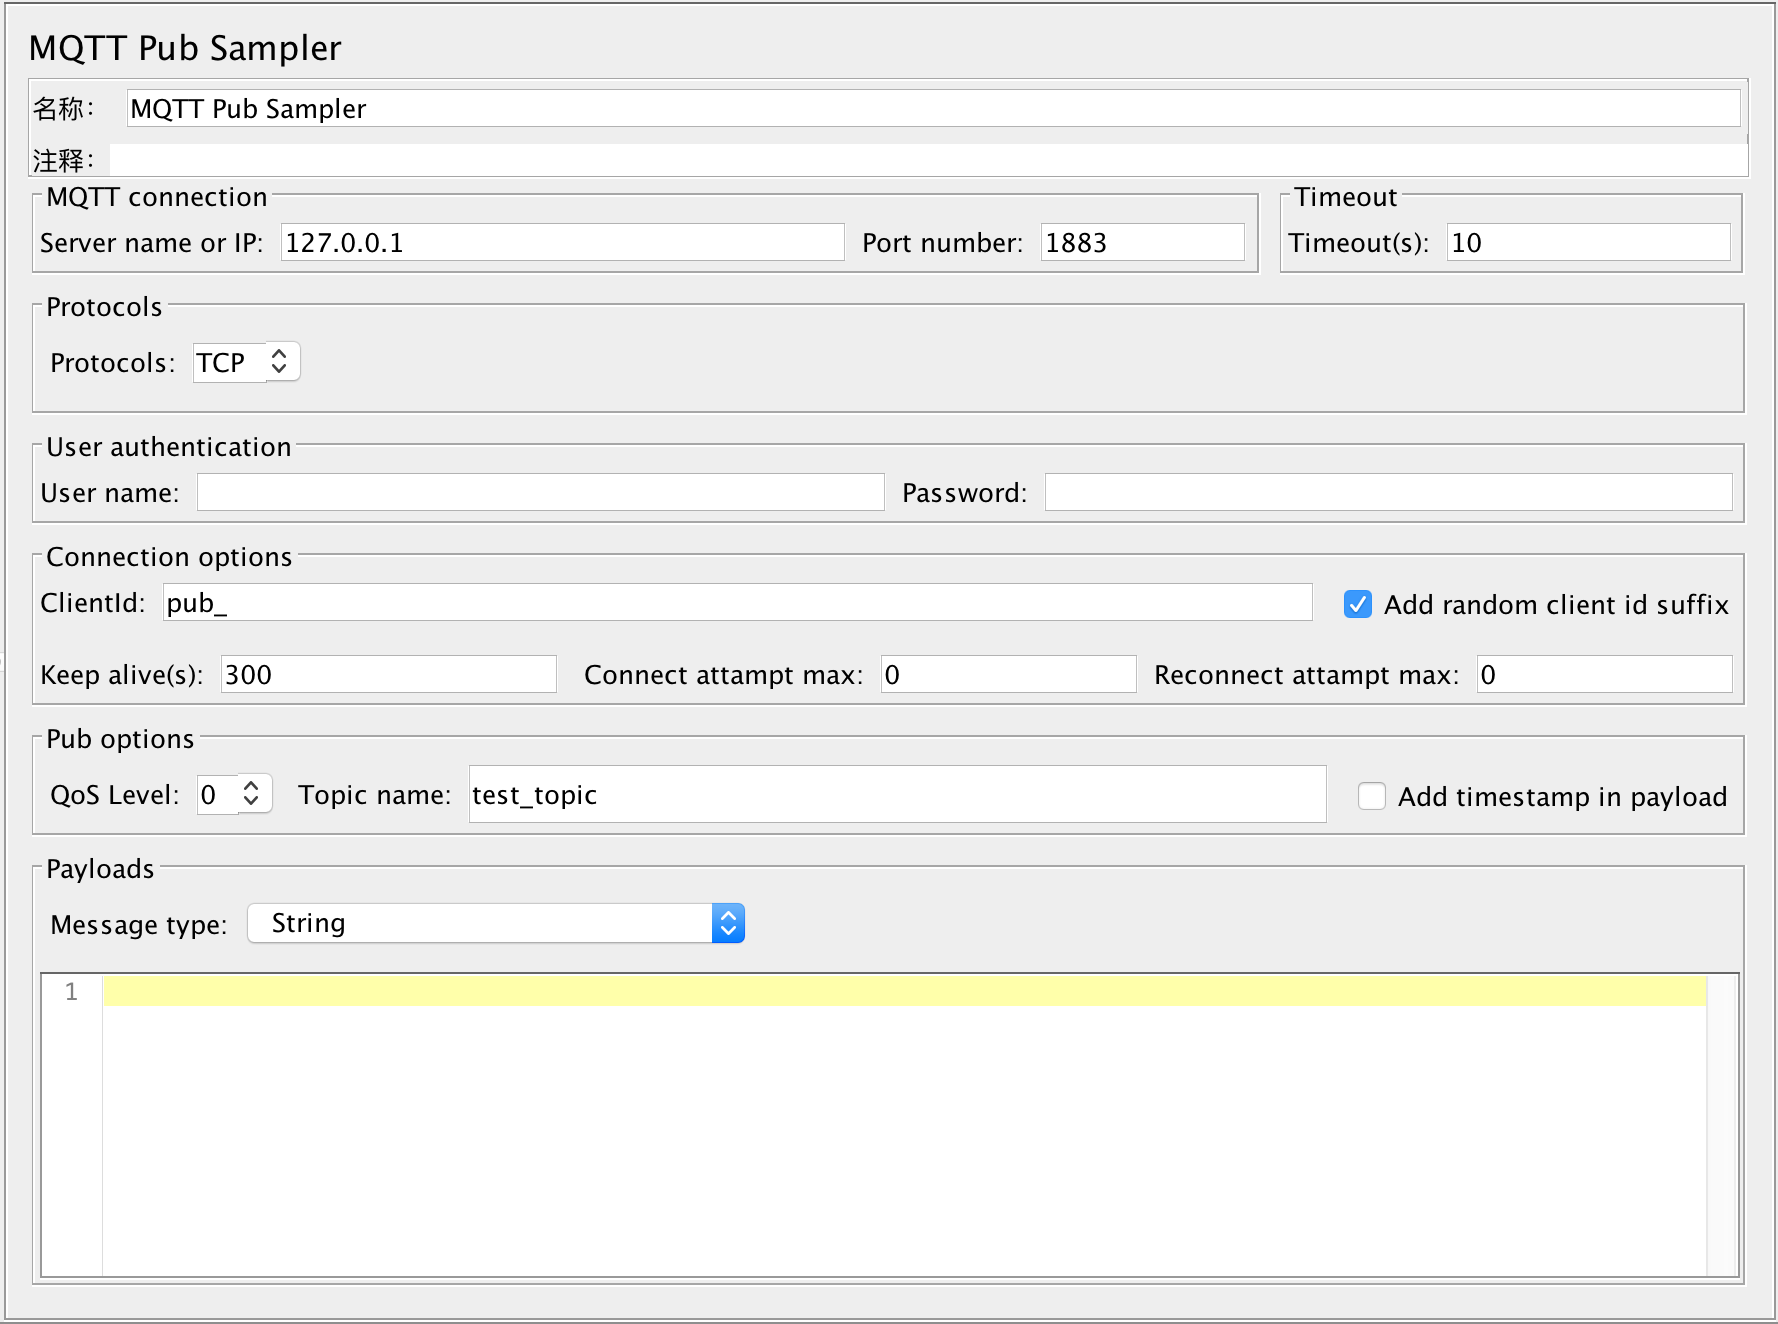
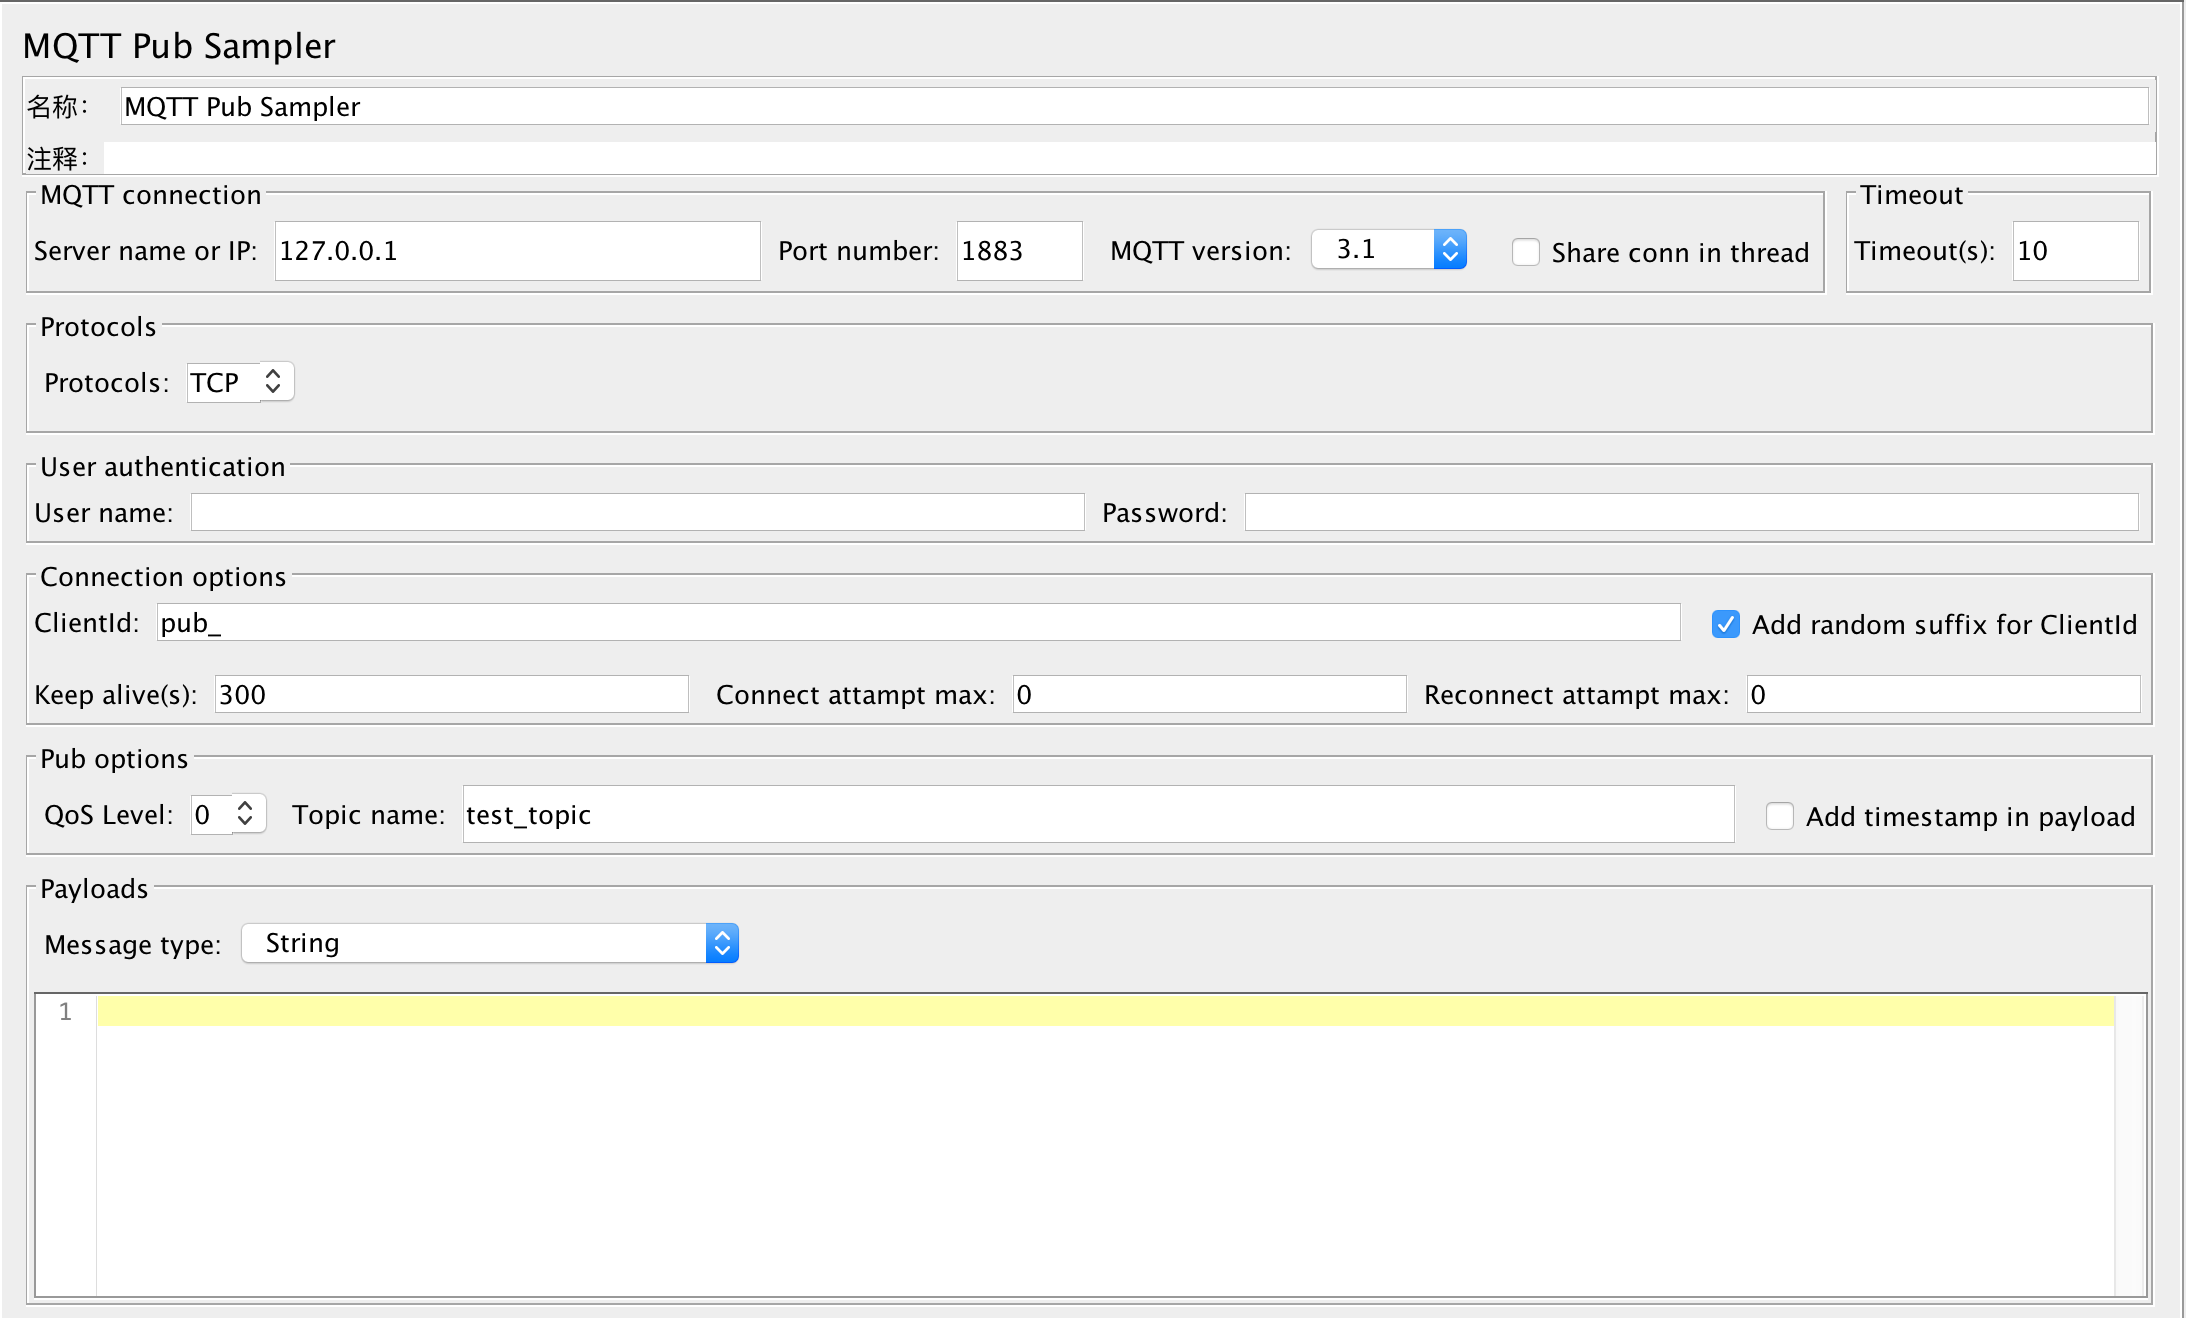
update the doc

Changed region(s): [[0.0, 0.0, 1.0, 1.0]]

diff --git a/README.md b/README.md
@@ -72,7 +72,24 @@ User can configure MQTT server with user name & password authentication, refer t
 ## Pub sampler
 ![pub_sampler](screenshots/pub_sampler.png)
 
-For **MQTT connection**, **User authentication** and **Connection options** section settings, please refer to *Connection sampler* for more detailed information.
+For **MQTT connection**, **User authentication**,  **Connection options** and **MQTT version** section settings, please refer to *Connection sampler* for more detailed information.
+
+- **Share conn in thread**: This option allows all of pub and sub samplers in the same threadgroup shares the same connection, this can simulate the situation of one device can be either pub or sub. For example, one IoT device can either send message to server, or receive the control message from server. Please notice, only those samplers in the same threadgroup check this option, then the connection will be shared. Also, the connection settings of first pub/sub sampler in the threadgroup will be used for shared connections, rests of connection settings in other samplers will be ignored if the option is checked. Please take a look at following 3 examples.
+
+ThreadGroupSample1
+  PubSampler1 (shared connection), the connection settings will be used for the shared connection.
+  SubSampler1 (shared connection), use shared connection of PubSampler1, the connection setting of this sampler will be ignored.
+
+
+ThreadGroupSample2
+  PubSampler1 (shared connection), the connection settings will be used for the shared connection.
+  SubSampler1 (not shared connection), another connection will be created with configuration in this sampler.
+
+
+ThreadGroupSample3
+  PubSampler1 (not shared connection), one connection will be created for the connection setting in this sampler.
+  SubSampler1 (shared connection), the connection settings will be used for the shared connection.
+  SubSampler2 (shared connection), use shared connection of SubSampler1, so the connection setting of this sampler will be ignored.
 
 ### Pub options
 
@@ -97,7 +114,9 @@ For **MQTT connection**, **User authentication** and **Connection options** sect
 ## Sub sampler
 ![sub_sampler](screenshots/sub_sampler.png)
 
-For **MQTT connection**, **User authentication** and **Connection options** section settings, please refer to *Connection sampler* for more detailed information.
+For **MQTT connection**, **User authentication**,  **Connection options** and **MQTT version** section settings, please refer to *Connection sampler* for more detailed information.
+
+For **Share conn in thread**, please refer to the Pub sampler.
 
 ### Sub options
 
